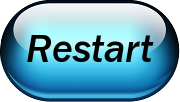
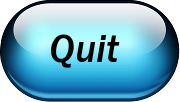
Added quit and restart buttons

Changed region(s): [[0.1389, 0.3235, 0.8611, 0.6765]]

diff --git a/webserver/templates/cube_multimode.html b/webserver/templates/cube_multimode.html
@@ -230,19 +230,29 @@ function flyin_menu_bg(){
 			opacity:0.6
 		},{ duration: 1000 }
 		);
+
+		$("#button_restart").animate( {
+			opacity:0.0
+		},{ duration: 1000 }
+		);
+
 }
 
 function flyout_menu_bg(){
 		$("#levelmenu_bgb").animate( {
-			opacity:-2.0
+			opacity:-1.0
 		},{ duration: 1000 }
 		);
 		$("#levelmenu_bgt").animate( {
-			opacity:-2.0
+			opacity:-1.0
 		},{ duration: 1000 }
 		);
 		$("#levelmenu_bg").animate( {
-			opacity:-2.0
+			opacity:-1.0
+		},{ duration: 1000 }
+		);
+		$("#button_restart").animate( {
+			opacity:1.0
 		},{ duration: 1000 }
 		);
 }
@@ -277,11 +287,15 @@ function flyout_levelmenu() {
 		},{ duration: 1000 }
 		);
 }
-		
-	$(document).ready(function() {
+	
+function home_screen(){
 		flyin_modemenu();        
 		flyin_menu_bg();        
-	});
+}
+
+$(document).ready(function() {
+  home_screen();
+});
 
 </script>
 
@@ -372,12 +386,24 @@ function flyout_levelmenu() {
 			margin-top: -160px;
 			z-index: 6	
 		}
+		.button_restart {
+			position: fixed;
+			bottom: 100px;
+			right: 100px;
+			z-index: 3;
+    }
+		.button_quit {
+			position: fixed;
+			bottom: 100px;
+			left: 100px;
+			z-index: 3;
+    }
 		
 		.button {
 			position: fixed;
 			bottom: 35%;
 			z-index: 3;
-   }
+    }
 		.button.left{
 		  left: 20%;
 		  float:left; 
@@ -430,7 +456,7 @@ p
       {% block top %}
       {% endblock %}
 			<div id="svgholder">
-       <canvas id="canvas" width=1300 height=1300></canvas>   
+       <canvas id="canvas" width=1100 height=1100></canvas>   
 			
 			</div>
 			<div class="bottomrow" >
@@ -442,6 +468,9 @@ p
 				<div class="clear"></div>
 			  <br>
       </div>
+
+			<img class="button_restart" id="button_restart" src="/static/restart.png" alt="Restart"  ondragstart="return false" onselectstart="return false" >
+			<img class="button_quit"    id="button_quit   " src="/static/quit.png"    alt="Restart"  ondragstart="return false" onselectstart="return false" onclick="home_screen()" >
 
 			<img id="levelmenu_bgt" src="/static/line.png"  class="topborder" height=6 width=2000>
 			<div id="levelmenu_bg"class="levelmenu_bg" >
@@ -470,13 +499,10 @@ p
 			</div>
 
 			<div class="footer" >
-				{% block bottom %}
-        {% endblock %}
-      </div>
-
-			
-
-
+			<font size=-1>
+     	<center>Groovik's Cube by GroovLabs<br>www.groovik.com</center> 
+			</font>
+			</div>
 
        <div id="cube_status">Waiting for controller...</div>
 
